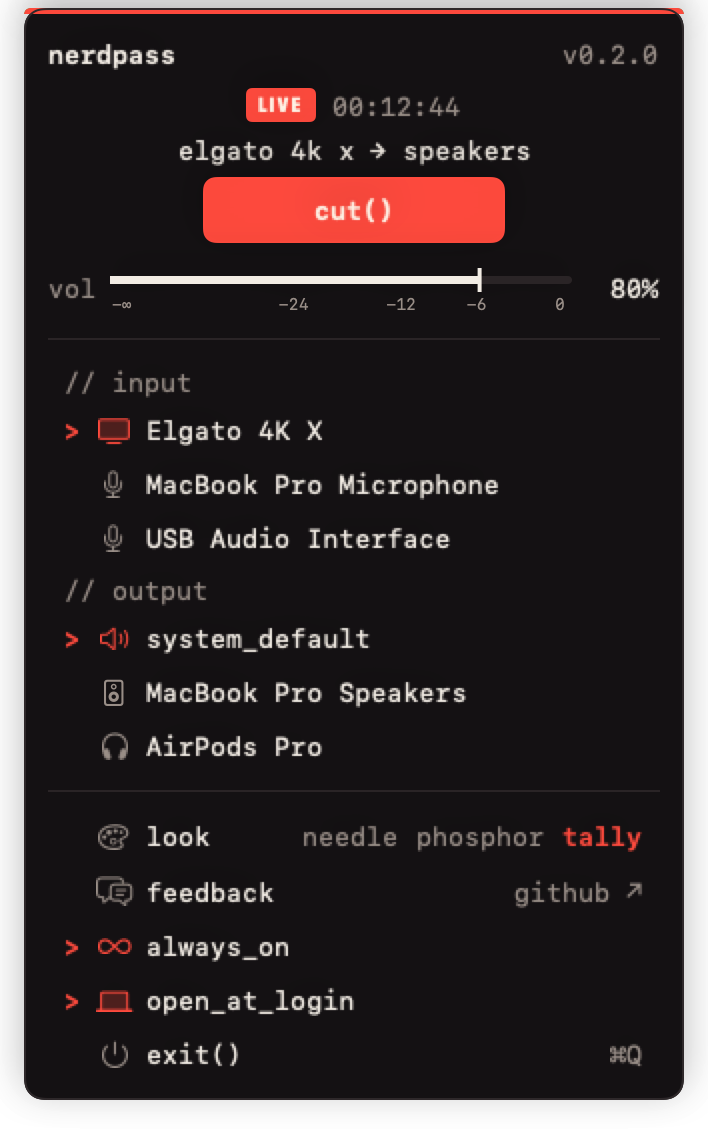
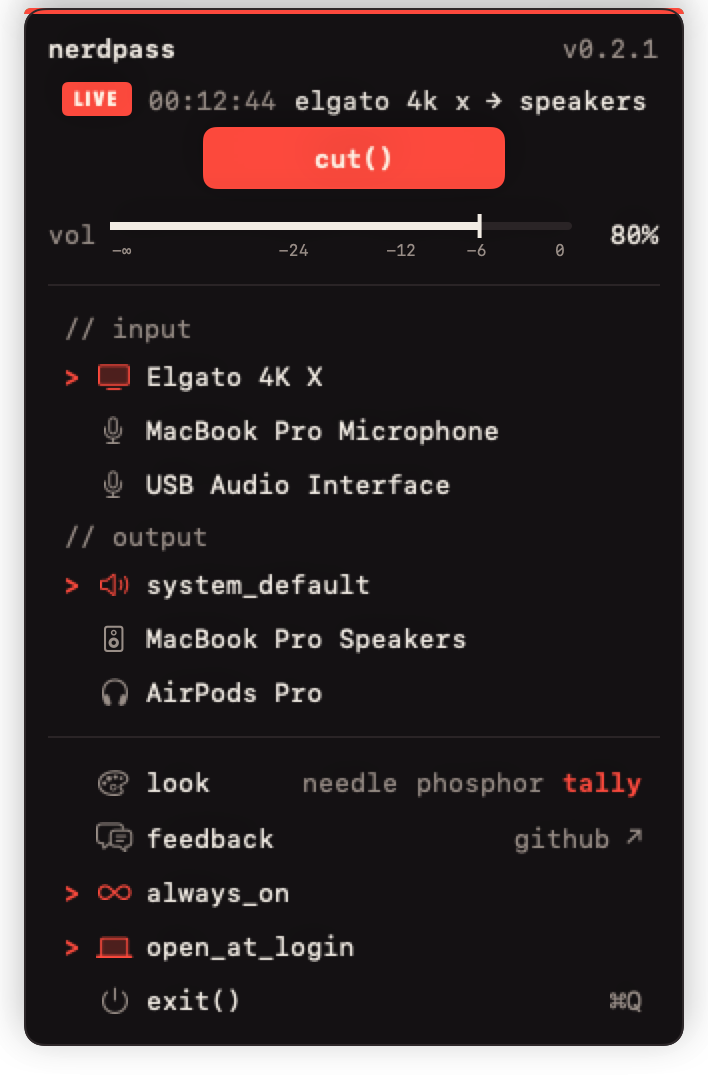
Tally panel is the same height as the other looks
LIVE, the on-air clock and the status share one row, take()/cut() is
30 pt like the other buttons, and the on-air strip sits inside the
panel's margin instead of adding to it.

diff --git a/Sources/App/main.swift b/Sources/App/main.swift
@@ -436,7 +436,7 @@ struct FlowButton: View {
         case .tally:
             let fill: Color = on ? (hover ? Color(hex: 0xD92C22) : p.accent) : (hover && enabled ? p.accent2 : .clear)
             Text(title).bold()
-                .frame(width: 150, height: 32)
+                .frame(width: 150, height: 30)
                 .foregroundColor(!enabled ? p.dim.opacity(0.6) : (on ? Color(hex: 0xFFF3E6) : (hover ? p.bg : p.accent2)))
                 .background(RoundedRectangle(cornerRadius: 6).fill(fill))
                 .overlay(RoundedRectangle(cornerRadius: 6).stroke(!enabled ? p.bezel : (on ? p.accent : p.accent2)))
@@ -829,7 +829,6 @@ struct NerdView: View {
         .font(p.font)
         .foregroundColor(p.text)
         .padding(12)
-        .padding(.top, p.look == .tally ? 3 : 0)
         .frame(width: 330)
         .background(RoundedRectangle(cornerRadius: p.radius).fill(p.bg))
         .overlay(alignment: .top) {
@@ -878,8 +877,11 @@ struct NerdView: View {
                 .padding(.vertical, 2)
                 .overlay { BeamSweep(model: model) }
             case .tally:
-                if model.isFlowing { OnAir(model: model) }
-                Text(status.lowercased()).foregroundColor(statusColor(p)).lineLimit(1).truncationMode(.middle)
+                // One row, like the other looks: LIVE and the clock lead while on air.
+                HStack(spacing: 8) {
+                    if model.isFlowing { OnAir(model: model).fixedSize() }
+                    Text(status.lowercased()).foregroundColor(statusColor(p)).lineLimit(1).truncationMode(.middle)
+                }
             }
             FlowButton(on: on, enabled: enabled) { model.toggle() }
         }
